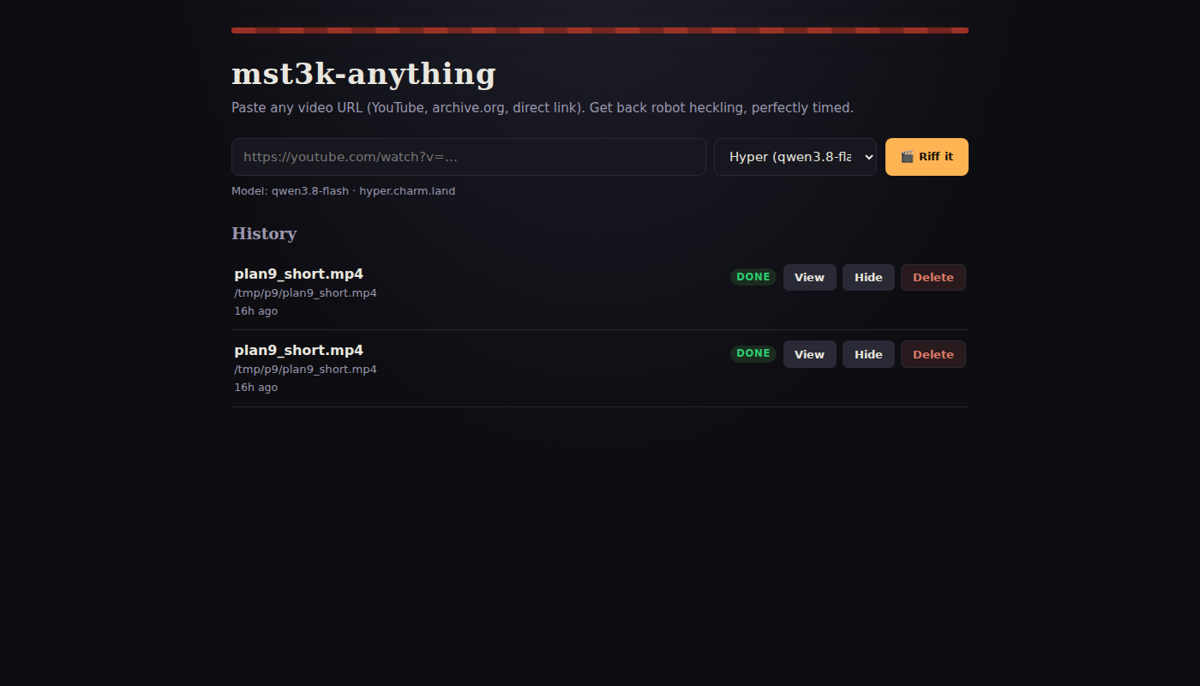
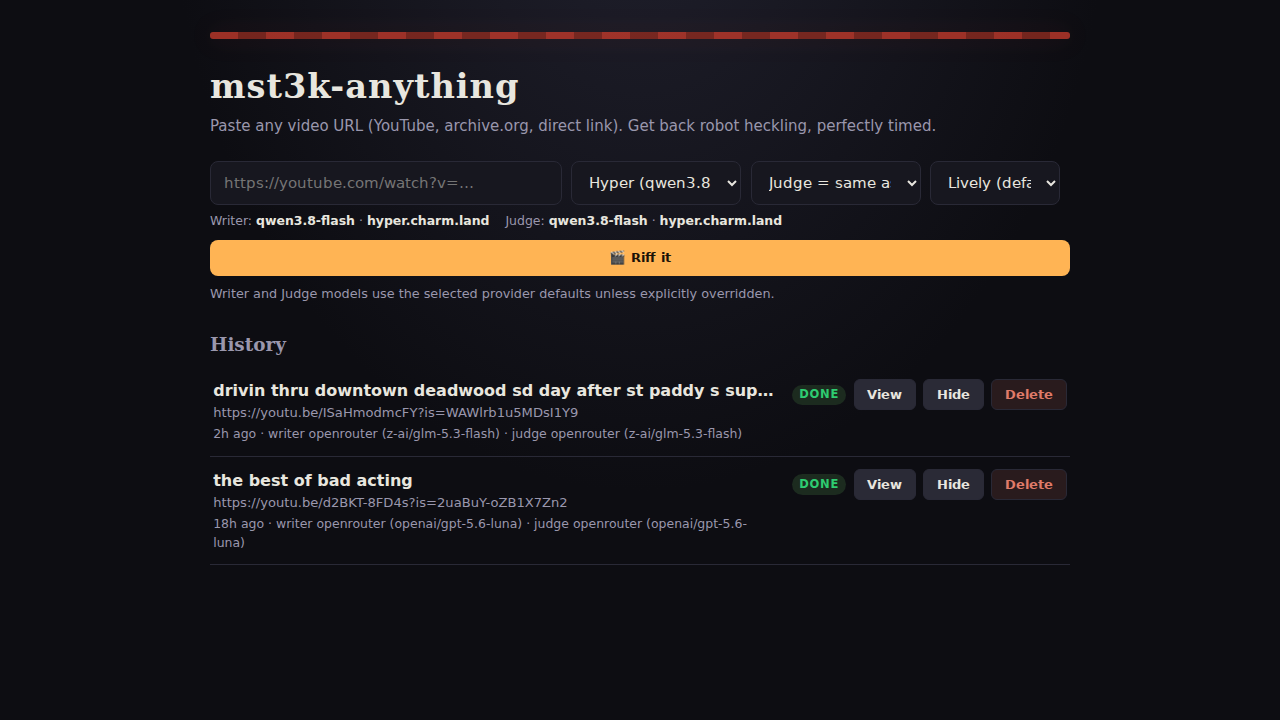
Generalize structured LLM recovery and refresh README screenshots
- Keep empty-content, malformed-JSON, structured-content-block, and transient
  response recovery provider/model agnostic.
- Apply reasoning_effort only to the known OpenRouter GLM family, while allowing
  operators to opt in for any documented compatible gateway/model via
  MST3K_REASONING_EFFORT; avoid sending unsupported fields by default.
- Refresh the README screenshots from the live UI: main controls/history,
  OpenRouter writer/judge picker, and completed player/editor view.
- Document the recovery behavior and add reasoning-control regression coverage.

diff --git a/src/mst3k/llm.py b/src/mst3k/llm.py
@@ -36,9 +36,10 @@ class LLM:
         # output budget in hidden reasoning and return content=null. Keep their
         # required reasoning pass low and request only the final answer for
         # structured calls.
-        if json_mode and "openrouter.ai" in self.api_base and self.model.lower().startswith("z-ai/"):
-            body["reasoning_effort"] = "low"
-            body["include_reasoning"] = False
+        if json_mode:
+            options = self._reasoning_options()
+            body.update(options)
+
         req = urllib.request.Request(
             f"{self.api_base}/chat/completions",
             data=json.dumps(body).encode(),
@@ -103,6 +104,21 @@ class LLM:
             if isinstance(value, str) and value.strip():
                 return value
         raise RuntimeError(f"LLM response from {self.api_base} contained no text content")
+
+    def _reasoning_options(self) -> dict:
+        """Return only explicitly/known-supported reasoning controls.
+
+        OpenAI-compatible gateways do not share a universal parameter contract.
+        Empty-content/JSON retries are universal; reasoning controls are sent
+        only for the observed OpenRouter GLM family or when the operator opts in
+        for a compatible provider/model via MST3K_REASONING_EFFORT.
+        """
+        effort = os.environ.get("MST3K_REASONING_EFFORT")
+        known_glm = ("openrouter.ai" in self.api_base and
+                     self.model.lower().startswith("z-ai/"))
+        if not effort and not known_glm:
+            return {}
+        return {"reasoning_effort": effort or "low", "include_reasoning": False}
 
     def chat_json(self, messages: list[dict], temperature: float = 0.9,
                   max_tokens: int = 2000):

diff --git a/tests/test_render_manifest.py b/tests/test_render_manifest.py
@@ -1,4 +1,5 @@
 import json
+import os
 import subprocess
 import tempfile
 import unittest
@@ -76,7 +77,16 @@ class RenderManifestTests(unittest.TestCase):
         with patch.object(client, "chat", side_effect=['{"x":', '{"x": 1}']):
             self.assertEqual(client.chat_json([{"role": "user", "content": "json"}])["x"], 1)
 
-    def test_llm_retries_an_empty_gateway_content_response(self):
+    def test_reasoning_controls_are_known_or_explicitly_opted_in(self):
+        glm = llm.LLM("https://openrouter.ai/api/v1", "key", "z-ai/glm-5.3-flash")
+        generic = llm.LLM("https://api.example/v1", "key", "model")
+        self.assertEqual(glm._reasoning_options(),
+                         {"reasoning_effort": "low", "include_reasoning": False})
+        self.assertEqual(generic._reasoning_options(), {})
+        with patch.dict(os.environ, {"MST3K_REASONING_EFFORT": "low"}):
+            self.assertEqual(generic._reasoning_options(),
+                             {"reasoning_effort": "low", "include_reasoning": False})
+
         client = llm.LLM("https://openrouter.ai/api/v1", "key", "z-ai/glm-5.3-flash")
         with patch.object(client, "chat", side_effect=[
             RuntimeError("LLM response from ... contained no text content"),

diff --git a/README.md b/README.md
@@ -3,7 +3,7 @@
 > Paste a video URL. Get back a robot-heckled version, perfectly timed against the
 > original audio — with the two-bot theater sitting at the bottom.
 
-![screenshot — main UI](docs/shots/ui-main.png)
+![current main UI — dense riff controls and resolved Writer/Judge models](docs/shots/ui-main.png)
 
 **What it does.** Downloads a video, builds a dense plan of potential riff cues from
 cadence, visual changes, audio energy, and natural pauses, transcribes the speech,
@@ -14,9 +14,9 @@ intentional option; timing windows guide the landing rather than vetoing a good 
 You watch in a side-by-side player that lets you drag to compare the original versus the
 riffed pass.
 
-![screenshot — provider picker](docs/shots/ui-providers.png)
+![current provider picker — OpenRouter writer and judge models](docs/shots/ui-providers.png)
 
-![screenshot — side-by-side player](docs/shots/ui-player.png)
+![current player and riff editor](docs/shots/ui-player.png)
 
 ## Highlights
 
@@ -42,6 +42,9 @@ riffed pass.
   the same video cannot overwrite each other's logs, PIDs, or outputs.
 - **Multi-provider LLM** — pick Hyper, Neuralwatt, or OpenRouter (full
   OpenRouter high-context multimodal picker included); per-job selectable.
+- **Provider-resilient structured LLM calls** — empty content, structured content blocks,
+  truncated JSON, and transient provider failures are retried for every provider. Provider-
+  specific reasoning controls are applied only when known-supported or explicitly configured.
 
 ## Stack
 
